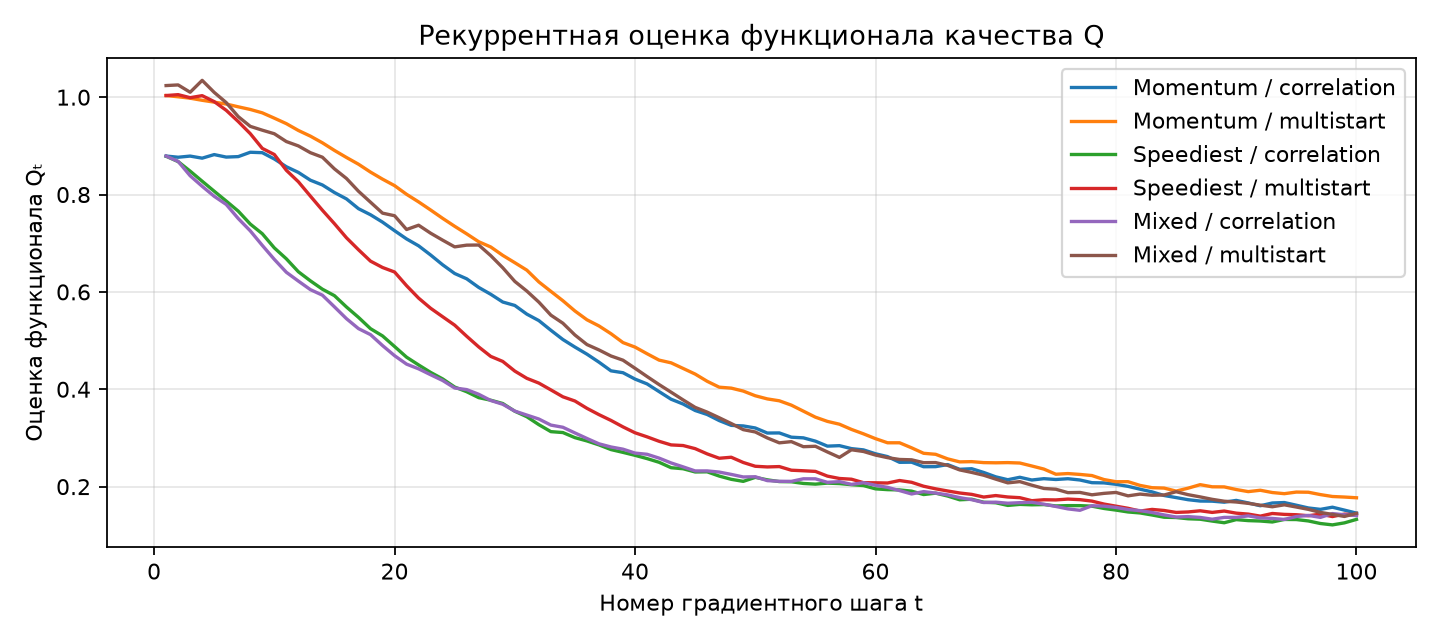
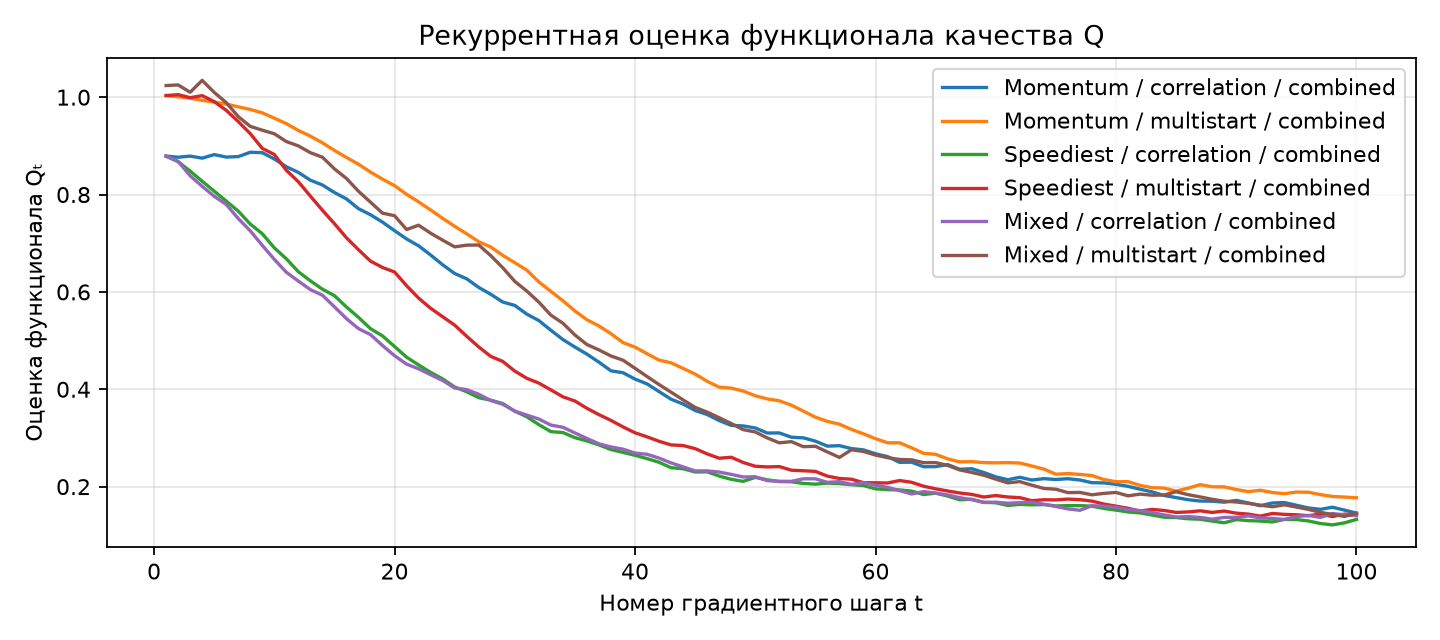
Add comparison between sampling strategies

Changed region(s): [[0.6562, 0.0938, 0.9688, 0.4375]]

diff --git a/students/ulyanova-ea/lab1/source/main.py b/students/ulyanova-ea/lab1/source/main.py
@@ -1,4 +1,5 @@
 from pathlib import Path
+from itertools import product
 from time import perf_counter
 
 import kagglehub
@@ -74,9 +75,11 @@ def main():
     }
     models, rows = {}, []
     for method, cls in constructors.items():
-        for init in ("correlation", "multistart"):
-            name = f"{method} / {init}"
-            model = cls(init=init)
+        for init, sampling in product(
+            ("correlation", "multistart"), ("random", "margin", "combined")
+        ):
+            name = f"{method} / {init} / {sampling}"
+            model = cls(init=init, sampling=sampling)
             started = perf_counter()
             model.fit(X_train, y_train, X_val, y_val)
             elapsed = perf_counter() - started
@@ -98,11 +101,24 @@ def main():
         row.update({f"{split} {metric}": value for metric, value in metrics(ys, reference.predict(xs)).items()})
     rows.append(row)
 
-    print(pd.DataFrame(rows).set_index("Model").round(4).to_string())
+    results = pd.DataFrame(rows).set_index("Model")
+    print(results.round(4).to_string())
     output_dir = Path(__file__).resolve().parent.parent / "img"
     output_dir.mkdir(parents=True, exist_ok=True)
-    plot_q(models).savefig(output_dir / "q_history.png", dpi=160)
-    plot_margins(models, X_test, y_test).savefig(output_dir / "margins.png", dpi=160)
+    results.to_csv(output_dir / "sampling_comparison.csv")
+    combined_models = {name: model for name, model in models.items()
+                       if model.sampling == "combined"}
+    plot_q(combined_models).savefig(output_dir / "q_history.png", dpi=160)
+    plot_margins(combined_models, X_test, y_test).savefig(output_dir / "margins.png", dpi=160)
+    for method, init in product(constructors, ("correlation", "multistart")):
+        comparison = {sampling: models[f"{method} / {init} / {sampling}"]
+                      for sampling in ("random", "margin", "combined")}
+        for kind, fig in (("q", plot_q(comparison)),
+                          ("margins", plot_margins(comparison, X_test, y_test))):
+            fig.suptitle(f"{method} / {init}")
+            fig.tight_layout()
+            fig.savefig(output_dir / f"sampling_{method}_{init}_{kind}.png", dpi=160)
+            plt.close(fig)
     plt.close("all")
 
 

diff --git a/students/ulyanova-ea/lab1/source/models.py b/students/ulyanova-ea/lab1/source/models.py
@@ -14,7 +14,9 @@ class LinearClassifier(ABC):
         pool_size=200,
         batch_size=16,
         seed=42,
+        sampling="combined", #margin/combined
     ):
+        self.sampling = sampling
         self.init = init
         self.n_starts = n_starts
         self.epochs = epochs
@@ -69,7 +71,15 @@ class LinearClassifier(ABC):
         self.db = float(np.mean(common))
 
     def _select_batch(self, X, y, rng):
+        n_batch = min(self.batch_size, len(X))
+        if self.sampling == "random":
+            indices = rng.choice(len(X), size=n_batch, replace=False)
+            return X[indices], y[indices]
+
         absolute_margins = np.abs(self.margins(X, y))
+        if self.sampling == "margin":
+            indices = np.argsort(absolute_margins, kind="stable")[:n_batch]
+            return X[indices], y[indices]
 
         n_pool = min(self.pool_size, len(X))
         pool = np.argpartition(absolute_margins, n_pool - 1)[:n_pool]

diff --git a/students/ulyanova-ea/lab1/README.md b/students/ulyanova-ea/lab1/README.md
@@ -23,7 +23,15 @@
 
 Для каждого метода проверены корреляционная инициализация и случайная инициализация с пятью стартами. В качестве эталона использовался готовый RidgeClassifier из sklearn. 
 
-## Результаты
+## Сравнение стратегий предъявления
+
+Параметр `sampling` у всех трёх классификаторов задаёт выбор батча:
+
+- `random` — случайный выбор из всей обучающей выборки без повторений внутри батча;
+- `margin` — выбор объектов с наименьшим абсолютным отступом;
+- `combined` (по умолчанию) — изначальная комбинация: случайный батч из `pool_size` объектов с наименьшим абсолютным отступом.
+
+## Результаты исходного комбинированного предъявления
 
 | Модель / инициализация | Время, с | Validation F1 | Test Accuracy | Test Precision | Test Recall | Test F1 |
 |---|---:|---:|---:|---:|---:|---:|
@@ -35,3 +43,8 @@
 | Mixed / multistart | 0.0319 | 0.9959 | 0.9852 | 0.9683 | 1.0000 | 0.9839 |
 
 Графики рекуррентного функционала качества и отступов представлены в папке img. Преобладание больших положительных отступов показывает, что большинство объектов классифицированы правильно и находятся далеко от разделяющей поверхности.
+
+## Результаты сравнения предъявлений объектов
+Предъявление по отступам даёт лучший результат по метрикам, но проигрывает по скорости случайному. Комбинация двух способов занимает промежуточное положение по скору.
+
+Также можно отметить, что при выборе по отступам Q снижался медленнее, поскольку оценивался на пограничных объектах с высокой потерей, что не противоречит лучшему качеству классификации.
